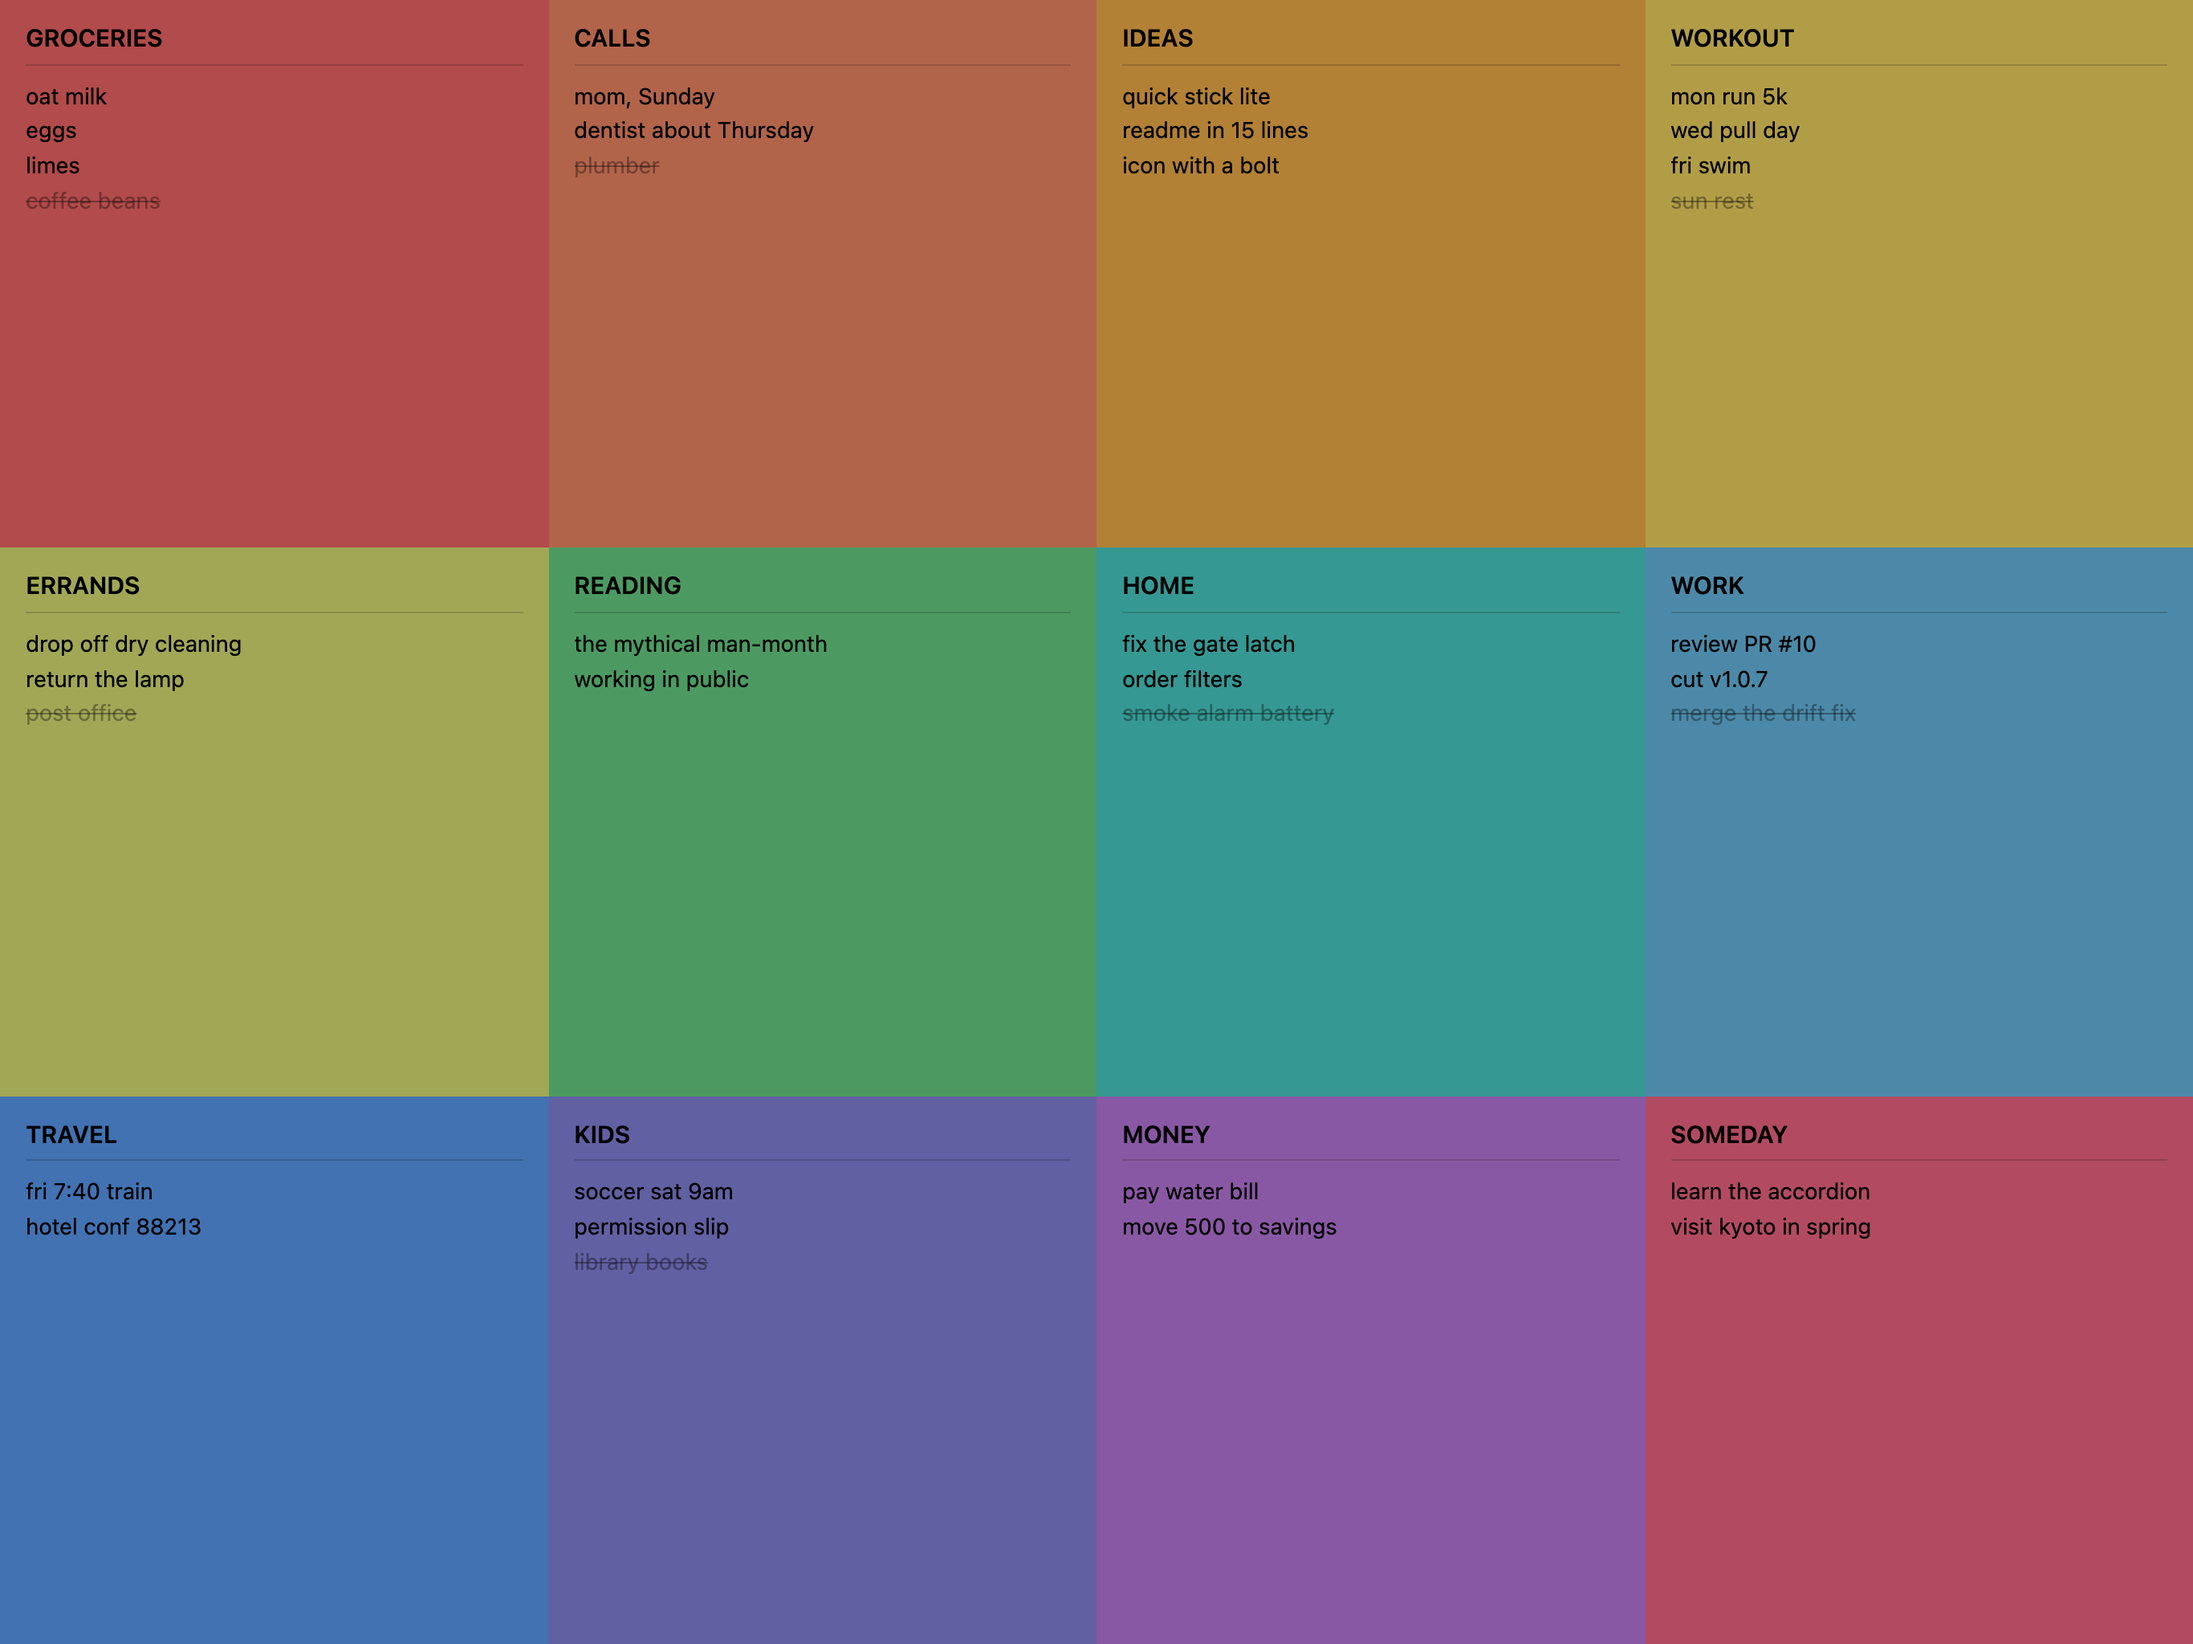
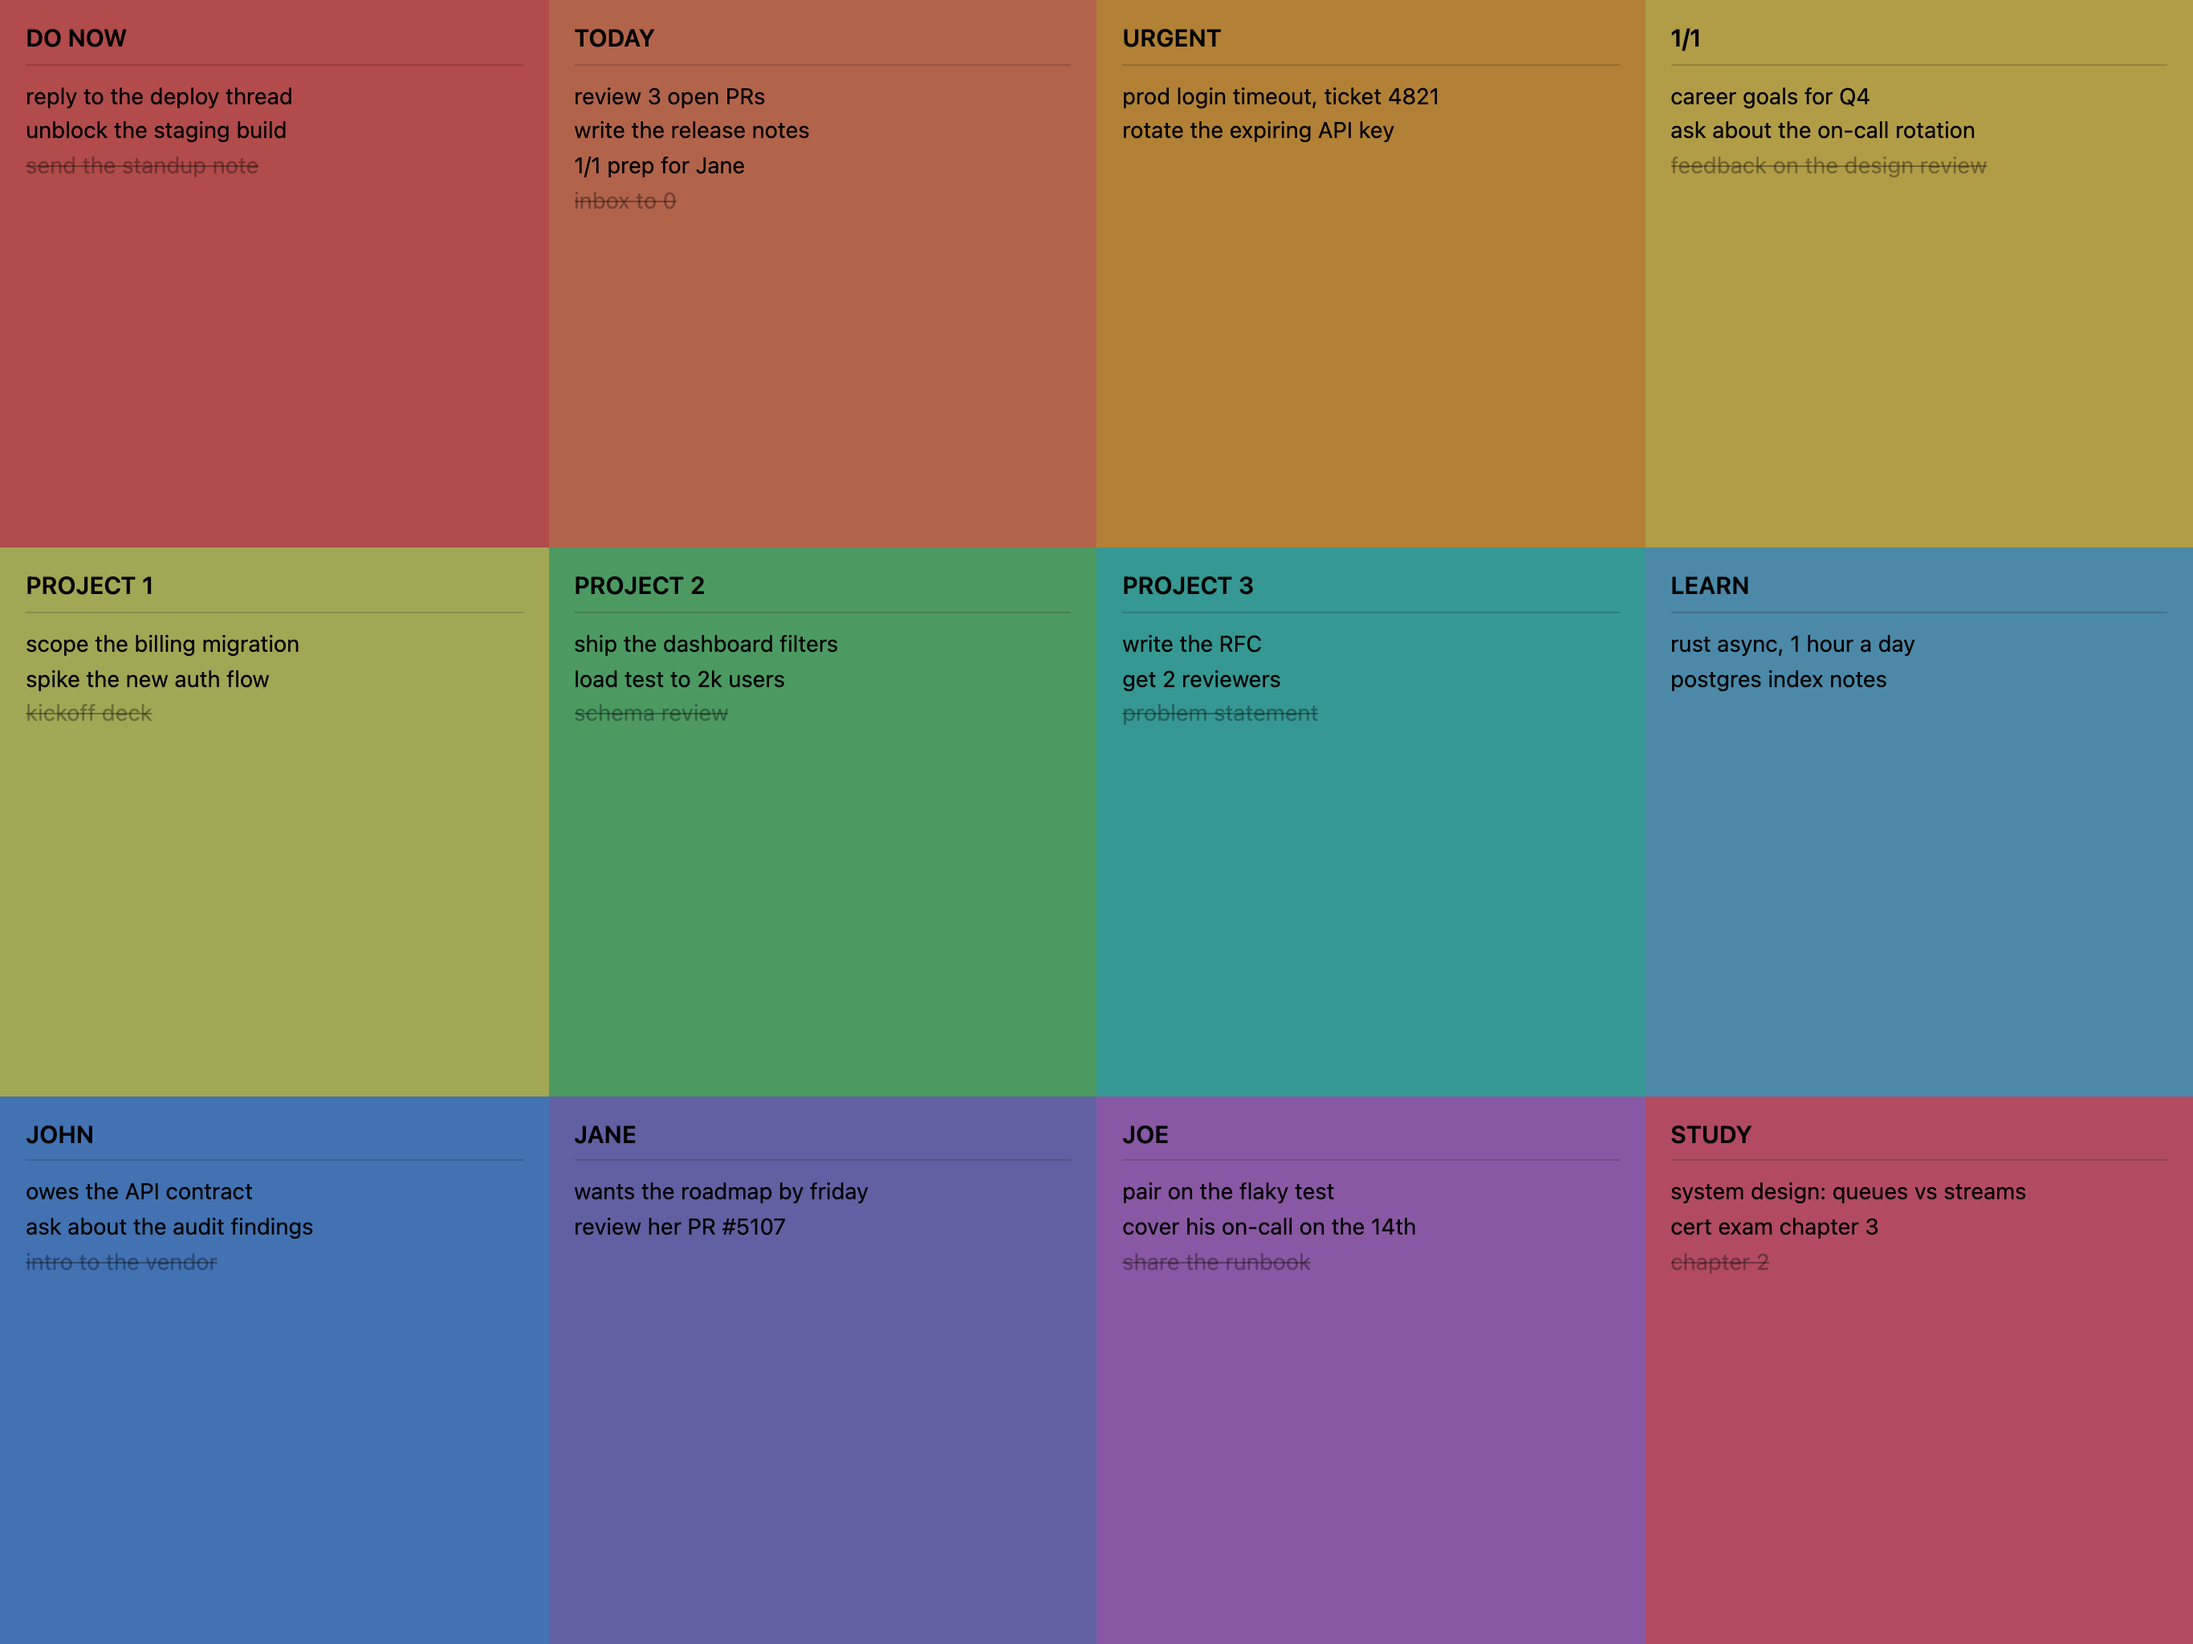
Demo board is a work board: Do Now, Today, Urgent, 1/1, 3 projects, Learn, Study and 3 people

diff --git a/index.html b/index.html
@@ -24,7 +24,7 @@ input::selection,textarea::selection{background:rgba(0,0,0,.22)}
 <div id="b"></div>
 <script>
 const C="#FF6B6B #FF8F6B #FFB84D #FFE066 #E8EF7B #6DDC8C #4DD9D2 #6CC4F0 #5EA3FF #8B89E8 #C47EEA #FF6B8A".split(" "),Z="\u200B",K="quick-stick";
-location.search=="?demo"&&!localStorage[K]&&(localStorage[K]='[{"t":"Groceries","b":"oat milk\\neggs\\nlimes\\n\u200Bcoffee beans"},{"t":"Calls","b":"mom, Sunday\\ndentist about Thursday\\n\u200Bplumber"},{"t":"Ideas","b":"quick stick lite\\nreadme in 15 lines\\nicon with a bolt"},{"t":"Workout","b":"mon run 5k\\nwed pull day\\nfri swim\\n\u200Bsun rest"},{"t":"Errands","b":"drop off dry cleaning\\nreturn the lamp\\n\u200Bpost office"},{"t":"Reading","b":"the mythical man-month\\nworking in public"},{"t":"Home","b":"fix the gate latch\\norder filters\\n\u200Bsmoke alarm battery"},{"t":"Work","b":"review PR #10\\ncut v1.0.7\\n\u200Bmerge the drift fix"},{"t":"Travel","b":"fri 7:40 train\\nhotel conf 88213"},{"t":"Kids","b":"soccer sat 9am\\npermission slip\\n\u200Blibrary books"},{"t":"Money","b":"pay water bill\\nmove 500 to savings"},{"t":"Someday","b":"learn the accordion\\nvisit kyoto in spring"}]');
+location.search=="?demo"&&!localStorage[K]&&(localStorage[K]='[{"t":"Do Now","b":"reply to the deploy thread\\nunblock the staging build\\n\u200Bsend the standup note"},{"t":"Today","b":"review 3 open PRs\\nwrite the release notes\\n1/1 prep for Jane\\n\u200Binbox to 0"},{"t":"Urgent","b":"prod login timeout, ticket 4821\\nrotate the expiring API key"},{"t":"1/1","b":"career goals for Q4\\nask about the on-call rotation\\n\u200Bfeedback on the design review"},{"t":"Project 1","b":"scope the billing migration\\nspike the new auth flow\\n\u200Bkickoff deck"},{"t":"Project 2","b":"ship the dashboard filters\\nload test to 2k users\\n\u200Bschema review"},{"t":"Project 3","b":"write the RFC\\nget 2 reviewers\\n\u200Bproblem statement"},{"t":"Learn","b":"rust async, 1 hour a day\\npostgres index notes"},{"t":"John","b":"owes the API contract\\nask about the audit findings\\n\u200Bintro to the vendor"},{"t":"Jane","b":"wants the roadmap by friday\\nreview her PR #5107"},{"t":"Joe","b":"pair on the flaky test\\ncover his on-call on the 14th\\n\u200Bshare the runbook"},{"t":"Study","b":"system design: queues vs streams\\ncert exam chapter 3\\n\u200Bchapter 2"}]');
 const D=JSON.parse(localStorage[K]||"null")||C.map(()=>({t:"",b:""})),b=document.getElementById("b"),$=(n,s)=>n.querySelector(s);
 b.innerHTML=C.map(c=>`<div class="n" style="background:${c}"><input class="t"><div class="w"><div class="m"></div><textarea class="a"></textarea></div></div>`).join("");
 const N=[...b.children],esc=s=>s.replace(/[&<>]/g,c=>({"&":"&amp;","<":"&lt;",">":"&gt;"})[c]),save=()=>localStorage[K]=JSON.stringify(D);
